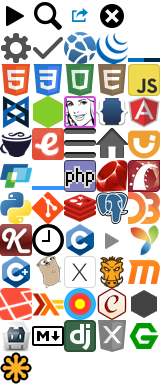
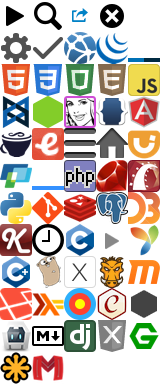
Add Marionette.js documentation

Changed region(s): [[0.1875, 0.9062, 0.4062, 1.0]]

diff --git a/assets/stylesheets/global/_icons.scss b/assets/stylesheets/global/_icons.scss
@@ -67,3 +67,4 @@
 ._icon-xpath:before         { background-position: -3rem -10rem; }
 ._icon-nginx:before         { background-position: -4rem -10rem; }
 ._icon-svg:before           { background-position: 0 -11rem; }
+._icon-marionette:before    { background-position: -1rem -11rem; }

diff --git a/assets/stylesheets/application.css.scss b/assets/stylesheets/application.css.scss
@@ -45,6 +45,7 @@
         'pages/laravel',
         'pages/less',
         'pages/lodash',
+        'pages/marionette',
         'pages/markdown',
         'pages/maxcdn',
         'pages/mdn',

diff --git a/assets/stylesheets/pages/_marionette.scss b/assets/stylesheets/pages/_marionette.scss
@@ -1,0 +1,7 @@
+._marionette {
+  padding-left: 1rem;
+
+  > h1, > h2 { margin-left: -1rem; }
+  > h2 { @extend %block-heading; }
+  > h3 { @extend %block-label, %label-blue; }
+}

diff --git a/lib/docs/scrapers/marionette.rb b/lib/docs/scrapers/marionette.rb
@@ -1,0 +1,27 @@
+module Docs
+  class Marionette < UrlScraper
+    self.name = 'Marionette.js'
+    self.slug = 'marionette'
+    self.type = 'marionette'
+    self.version = '2.2.1'
+    self.base_url = 'http://marionettejs.com/docs/'
+    self.root_path = 'current'
+
+    html_filters.push 'marionette/clean_html', 'marionette/entries'
+
+    options[:container] = '#content'
+
+    options[:skip] = %w(/readme.html)
+    options[:skip_patterns] = [/\A\/v\d/]
+
+    options[:fix_urls] = ->(url) do
+      url.sub! %r{marionette([^\/#\?]*)\.md}, 'marionette\1'
+      url
+    end
+
+    options[:attribution] = <<-HTML
+      &copy; 2014 Muted Solutions, LLC<br>
+      Licensed under the MIT License.
+    HTML
+  end
+end

diff --git a/lib/docs/filters/marionette/clean_html.rb b/lib/docs/filters/marionette/clean_html.rb
@@ -1,0 +1,30 @@
+module Docs
+  class Marionette
+    class CleanHtmlFilter < Filter
+      def call
+        root_page? ? root : other
+        doc
+      end
+
+      def root
+        at_css('p').remove
+      end
+
+      def other
+        css('#source + h2', '#improve', '#source', '.glyphicon').remove
+
+        css('pre > code').each do |node|
+          node.before(node.children).remove
+        end
+
+        css('h2', 'h3').each do |node|
+          id = node.content.strip
+          id.downcase!
+          id.remove! %r{['"\/\.:]}
+          id.gsub! %r{[\ _]}, '-'
+          node['id'] = id
+        end
+      end
+    end
+  end
+end

diff --git a/lib/docs/filters/marionette/entries.rb b/lib/docs/filters/marionette/entries.rb
@@ -1,0 +1,12 @@
+module Docs
+  class Marionette
+    class EntriesFilter < Docs::EntriesFilter
+      def get_name
+        name = at_css('h1').content.strip
+        name.remove!(/Marionette./)
+        name = name[0].upcase + name.from(1)
+        name
+      end
+    end
+  end
+end
